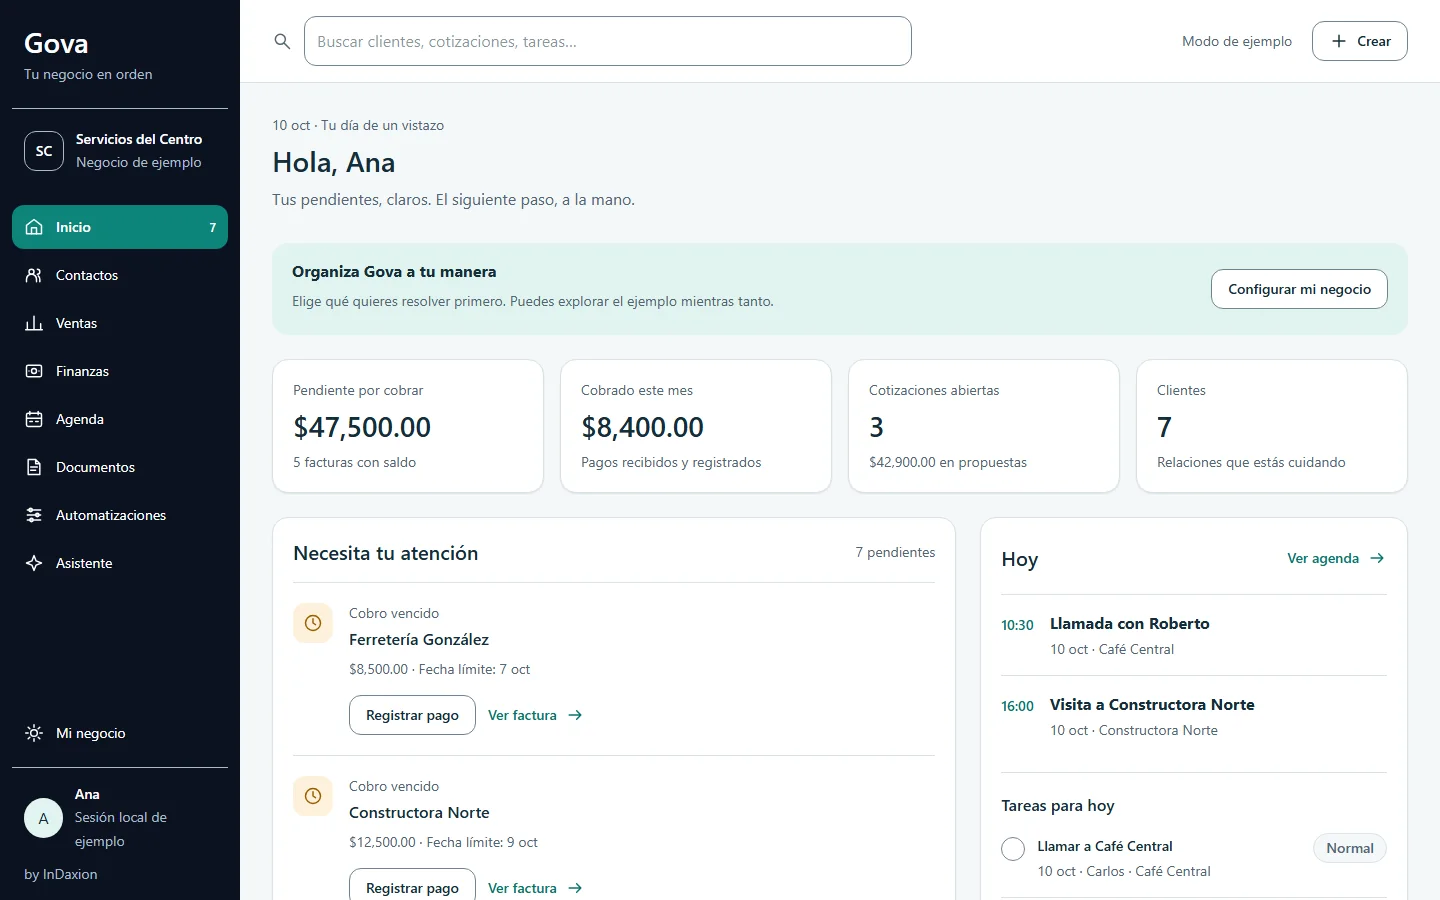
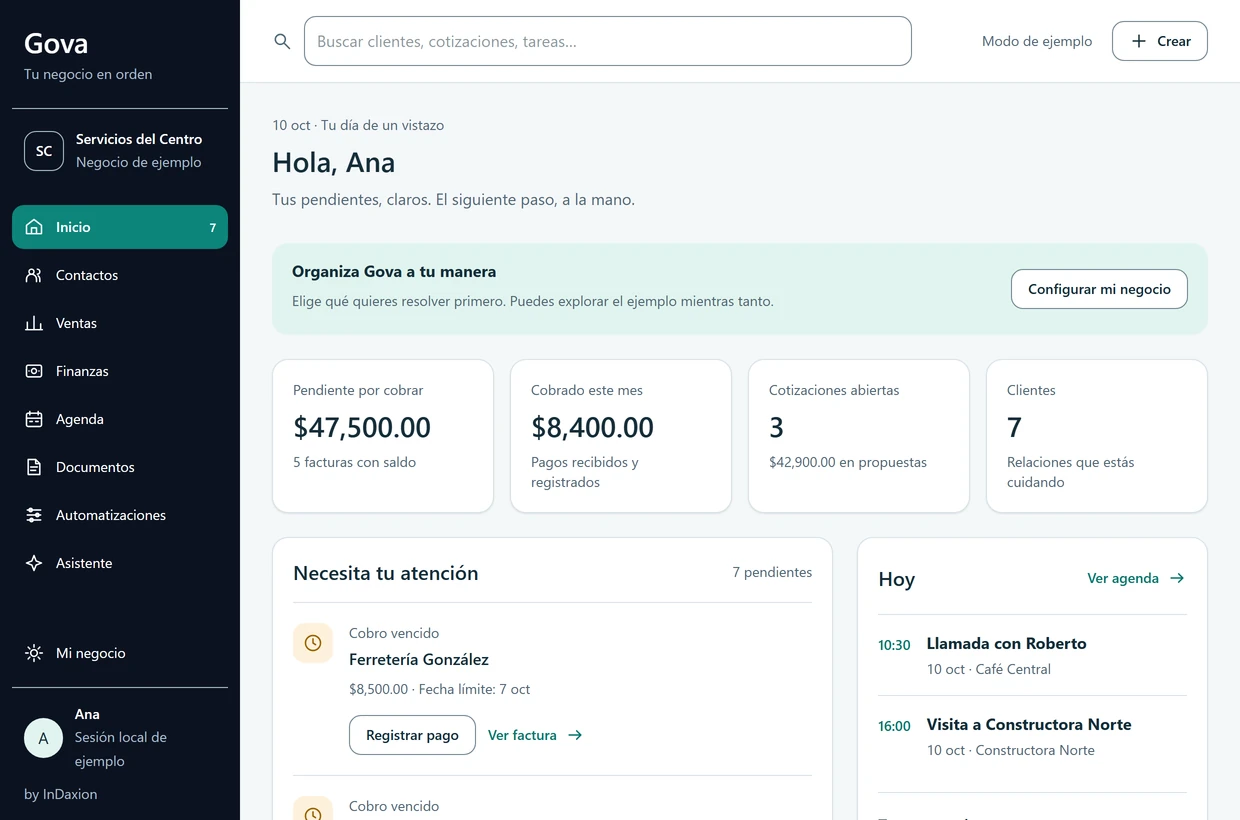
Capturas de Gova más nítidas: doble densidad y más grandes
Se vuelven a tomar a 1240×820 (justo arriba de los cortes de diseño de
Gova) con densidad 2: la interfaz sale 16 % más grande en la imagen y el
texto ya no se ve difuso al reducirse. Cada pantalla tiene versión 1x
(WebP calidad 90) y 2x (WebP sin pérdida, que en capturas de interfaz
pesa menos que con pérdida); srcSet elige según la pantalla.

La captura principal del hero también crece un poco.

diff --git a/src/components/ProductStage/ProductStage.jsx b/src/components/ProductStage/ProductStage.jsx
@@ -1,6 +1,6 @@
 import { useLayoutEffect, useRef, useState } from 'react'
 import { motion, useReducedMotion, useScroll, useTransform } from 'framer-motion'
-import { govaScreens } from '../Products/productsData'
+import { govaScreens, screenSrcSet } from '../Products/productsData'
 import { content } from '../../content'
 import './ProductStage.css'
 
@@ -23,15 +23,15 @@ const DOC_W = 240
 
 const LAYOUTS = {
   hero: {
-    stage: { width: 1000, height: 700 },
-    plane: { width: 1000, height: 700, rotateX: 5, rotateY: -12, rotateZ: 0, scale: 1 },
+    stage: { width: 1000, height: 740 },
+    plane: { width: 1000, height: 740, rotateX: 5, rotateY: -12, rotateZ: 0, scale: 1 },
     // Al terminar el scroll del hero
     planeEnd: { rotateX: 0, rotateY: -4, rotateZ: 0 },
     // `open`: cuánto se abre cada capa de atrás con el scroll
     layers: [
-      { id: 'ventas',    x: 340, y: 40,  z: -180, width: 620, opacity: 0.92, open: { x: 50, y: -30 } },
-      { id: 'documento', x: 30,  y: 190, z: -110, width: 250, rotate: -6, open: { x: -50, y: 20 } },
-      { id: 'inicio',    x: 120, y: 170, z: 0,    width: 780 },
+      { id: 'ventas',    x: 350, y: 30,  z: -180, width: 620, opacity: 0.92, open: { x: 50, y: -30 } },
+      { id: 'documento', x: 20,  y: 170, z: -110, width: 240, rotate: -6, open: { x: -50, y: 20 } },
+      { id: 'inicio',    x: 100, y: 150, z: 0,    width: 820 },
     ],
   },
   tour: {
@@ -98,6 +98,7 @@ function Screen({ id, eager, opacity = 1 }) {
     >
       <img
         src={shot.src}
+        srcSet={screenSrcSet(shot)}
         width={shot.width}
         height={shot.height}
         alt={content.products.gova.screens[id].alt}

diff --git a/src/components/Products/productsData.js b/src/components/Products/productsData.js
@@ -13,16 +13,28 @@ export const productsData = [
 export const getProduct = (id) => productsData.find(product => product.id === id)
 
 /**
- * Capturas del MVP de Gova (repo GovaCRM, base de ejemplo "Servicios del Centro").
+ * Capturas del MVP de Gova (repo GovaCRM, base de ejemplo "Servicios del Centro"),
+ * tomadas a 1240×820 con doble densidad: `src` (1x) y `src2x` (2x, sin pérdida).
+ * width/height son los de la versión 1x.
  * Texto alternativo y etiqueta: content.products.gova.screens[id].
  */
+const screen = (id, width = 1240, height = 820) => ({
+  src: `/products/gova-${id}.webp`,
+  src2x: `/products/gova-${id}@2x.webp`,
+  width,
+  height,
+})
+
 export const govaScreens = {
-  inicio:     { src: '/products/gova-inicio.webp',     width: 1440, height: 900 },
-  catalogo:   { src: '/products/gova-catalogo.webp',   width: 1440, height: 900 },
-  cotizacion: { src: '/products/gova-cotizacion.webp', width: 1440, height: 900 },
-  documento:  { src: '/products/gova-documento.webp',  width: 1112, height: 1594 },
-  ventas:     { src: '/products/gova-ventas.webp',     width: 1440, height: 900 },
+  inicio:     screen('inicio'),
+  catalogo:   screen('catalogo'),
+  cotizacion: screen('cotizacion'),
+  documento:  screen('documento', 456, 817),
+  ventas:     screen('ventas'),
 }
+
+/** srcSet para que cada pantalla descargue la densidad que necesita */
+export const screenSrcSet = shot => `${shot.src} 1x, ${shot.src2x} 2x`
 
 /** Pasos del recorrido "Gova, paso a paso": cada uno muestra su captura */
 export const govaTour = ['catalogo', 'cotizacion', 'documento', 'inicio']

diff --git a/src/components/Products/Products.jsx b/src/components/Products/Products.jsx
@@ -4,7 +4,7 @@ import SectionHeader from '../SectionHeader/SectionHeader'
 import StatusBadge from '../StatusBadge/StatusBadge'
 import ProductStage from '../ProductStage/ProductStage'
 import ProductIllustration from './ProductIllustration'
-import { getProduct, govaScreens, govaTour } from './productsData'
+import { getProduct, govaScreens, govaTour, screenSrcSet } from './productsData'
 import { content } from '../../content'
 import './Products.css'
 
@@ -71,6 +71,7 @@ function GovaTour() {
                   <img
                     className={`gova-tour__shot${portrait ? ' gova-tour__shot--portrait' : ''}`}
                     src={shot.src}
+                    srcSet={screenSrcSet(shot)}
                     width={shot.width}
                     height={shot.height}
                     alt={text.screens[id].alt}

diff --git a/e2e/reposicionamiento.spec.js b/e2e/reposicionamiento.spec.js
@@ -55,7 +55,8 @@ test.describe('Home', () => {
     const shot = gova.getByRole('img', { name: /Catálogo de productos y servicios en Gova/ }).filter({ visible: true })
     await shot.scrollIntoViewIfNeeded()
     await expect(shot).toBeVisible()
-    await expect.poll(() => shot.evaluate(img => img.naturalWidth)).toBe(1440)
+    // 1x (1240 px) o 2x (2480 px) según la densidad de la pantalla
+    await expect.poll(() => shot.evaluate(img => img.naturalWidth)).toBeGreaterThanOrEqual(1240)
 
     const miga = page.locator('#productos .miga-card')
     await expect(miga.locator('.status-badge')).toHaveText('En desarrollo')
